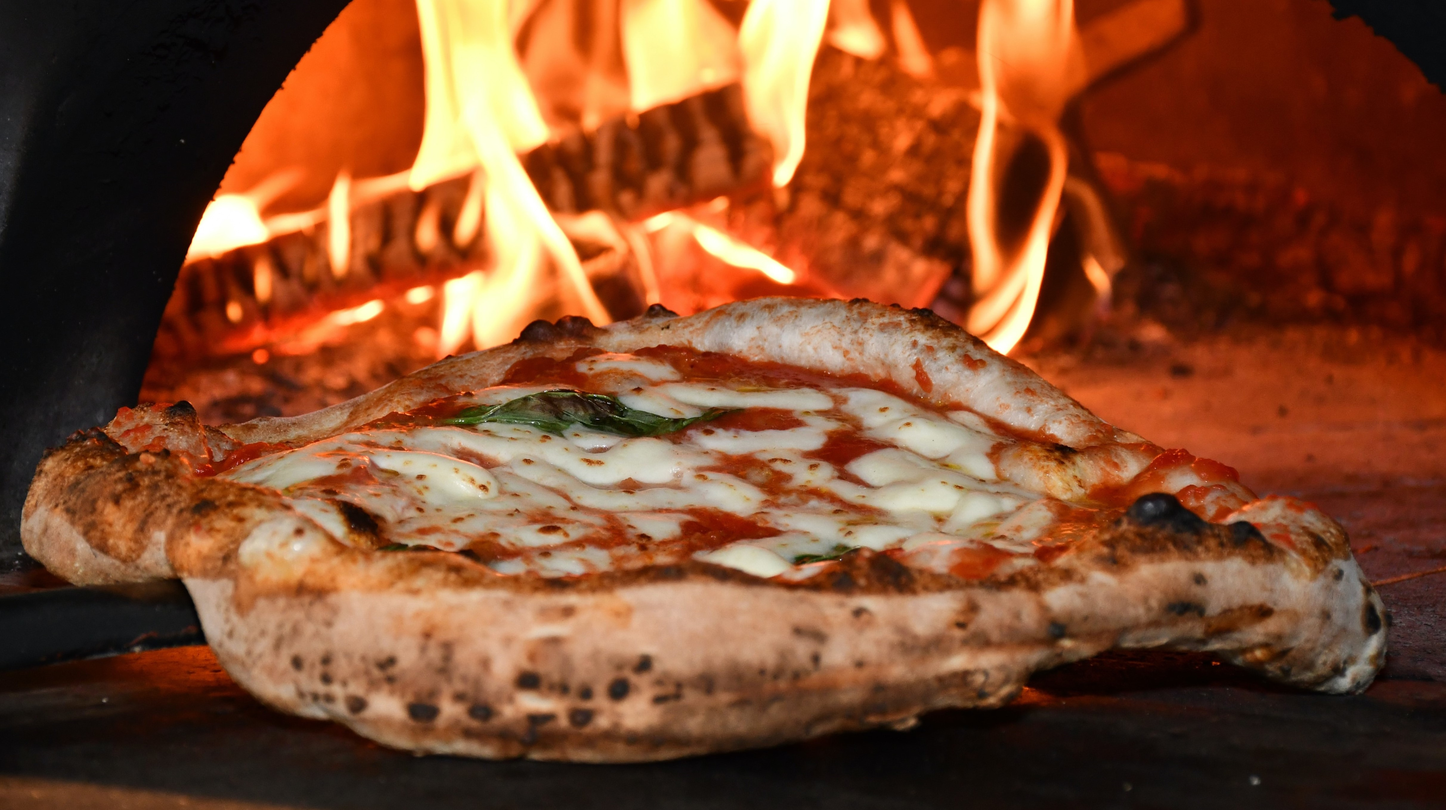
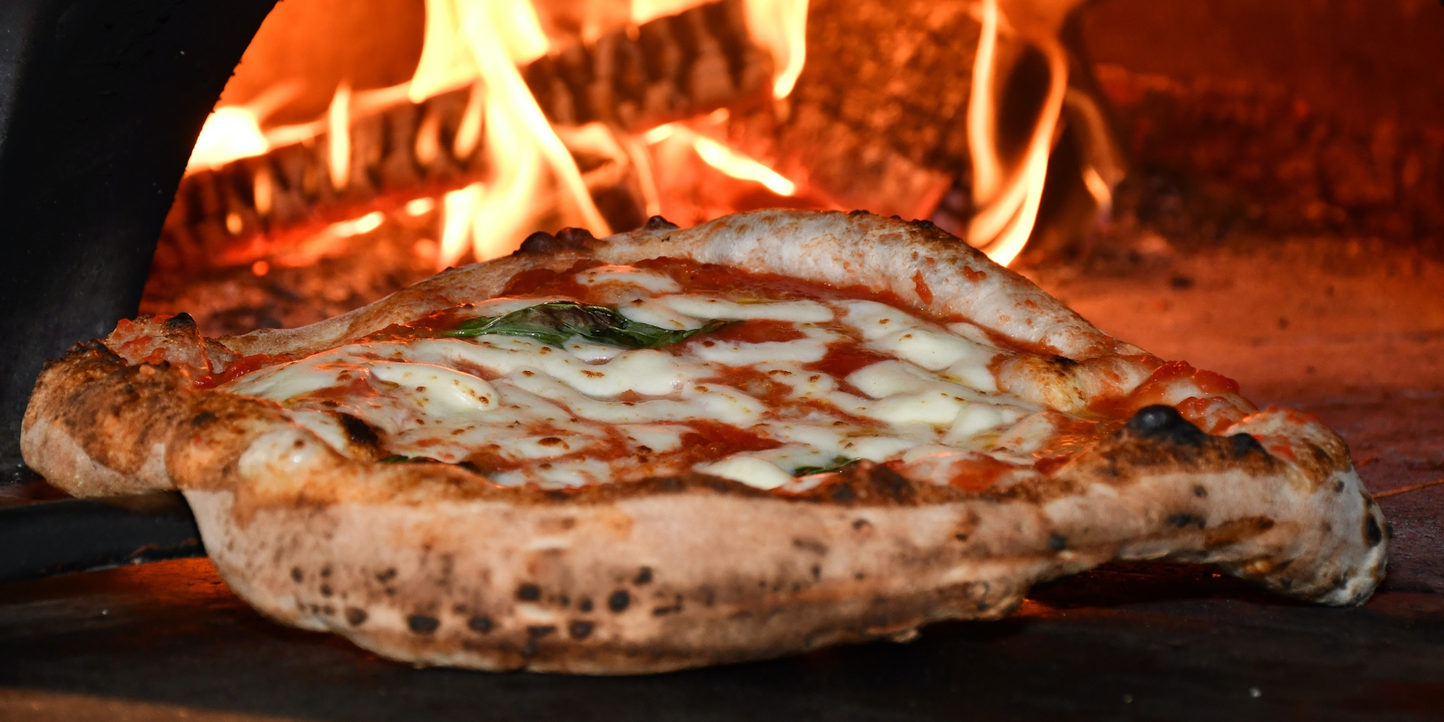
fixed slider

diff --git a/src/components/TitleHeader.vue b/src/components/TitleHeader.vue
@@ -41,7 +41,7 @@ export default {
 
 <style lang="scss" scoped>
 img {
-    max-height: 600px;
+    max-height: 500px;
     object-fit: cover;
 }
 </style>
